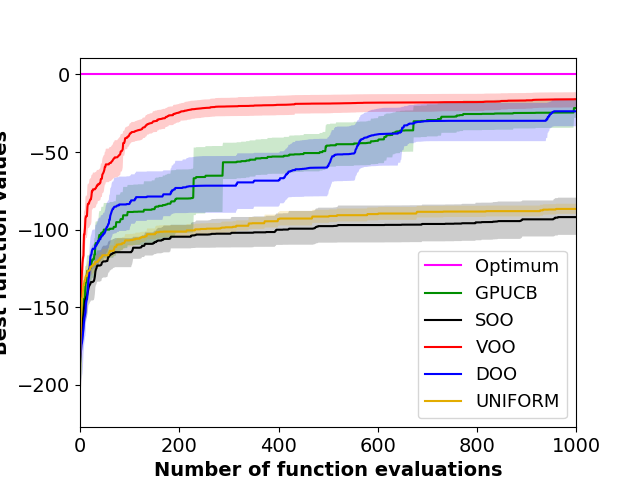
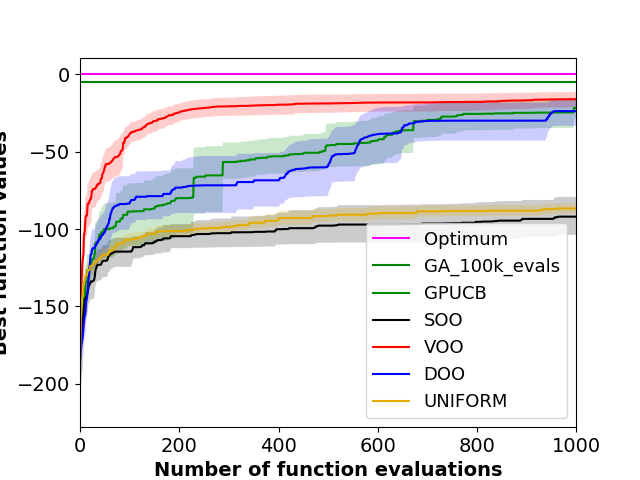
making pygmo to be imported only in local machine

diff --git a/test_scripts/test_optimization_algorithms.py b/test_scripts/test_optimization_algorithms.py
@@ -10,7 +10,9 @@ from deap.benchmarks import shekel
 from deap import benchmarks
 
 import socket
-#if socket.gethostname() != 'shakey':
+if socket.gethostname() == 'dell-XPS-15-9560':
+    import pygmo as pg
+
 if True:
   from generators.gpucb_utils.gp import StandardContinuousGP
   from generators.gpucb_utils.functions import UCB, Domain
@@ -248,7 +250,6 @@ def voo(explr_p):
 
     return evaled_x, evaled_y, max_y, times
 
-import pygmo as pg
 
 
 class ShekelProblem:
@@ -261,7 +262,7 @@ class ShekelProblem:
 
 def genetic_algorithm(explr_p):
     prob = pg.problem(ShekelProblem())
-    sade = pg.sade(gen=1000000, ftol=1e-30, xtol=1e-30)
+    sade = pg.sade(gen=1000000, ftol=1e-3, xtol=1e-3)
     algo = pg.algorithm(sade)
     algo.set_verbosity(1)
     pop = pg.population(prob, size=1000)
@@ -298,7 +299,10 @@ def main():
         save_dir = './test_results/function_optimization/' + obj_fcn + '/dim_' + str(dim_x) + '/'+algo_name+'/'
 
     if not os.path.isdir(save_dir):
-        os.makedirs(save_dir)
+        try:
+            os.makedirs(save_dir)
+        except OSError:
+            pass
 
     if os.path.isfile(save_dir+'/'+str(problem_idx)+'.pkl'):
         print "Already done"

diff --git a/plotters/plot_optimization_algorithms.py b/plotters/plot_optimization_algorithms.py
@@ -123,12 +123,19 @@ def plot_across_algorithms():
         sns.tsplot([0]*2000, range(2000), ci=95, condition='Optimum', color='magenta')
     else:
         if n_dim == 3:
-            sns.tsplot([53.404] * 2000, range(2000), ci=95, condition='GA_1.3k_evals', color='magenta')
+            sns.tsplot([53.404] * 2000, range(2000), ci=95, condition='GA_1.3k_evals', color='green')
         elif n_dim == 10:
             #sns.tsplot([] * 2000, range(2000), ci=95, condition='GA_1.3k_evals', color='magenta')
             pass
         elif n_dim == 20:
-            sns.tsplot([5.32] * 2000, range(2000), ci=95, condition='GA_750k_evals', color='magenta')
+            sns.tsplot([5.32] * 5000, range(5000), ci=95, condition='GA_750k_evals', color='purple')
+
+    if args.obj_fcn == 'rastrigin':
+        if n_dim == 10:
+            sns.tsplot([-24]*2000, range(2000), ci=95, condition='GA_40k_evals', color='purple')
+        elif n_dim == 20:
+            sns.tsplot([-49]*2000, range(2000), ci=95, condition='GA_100k_evals', color='purple')
+
 
 
     if args.obj_fcn == 'shekel' and args.dim == 3:
